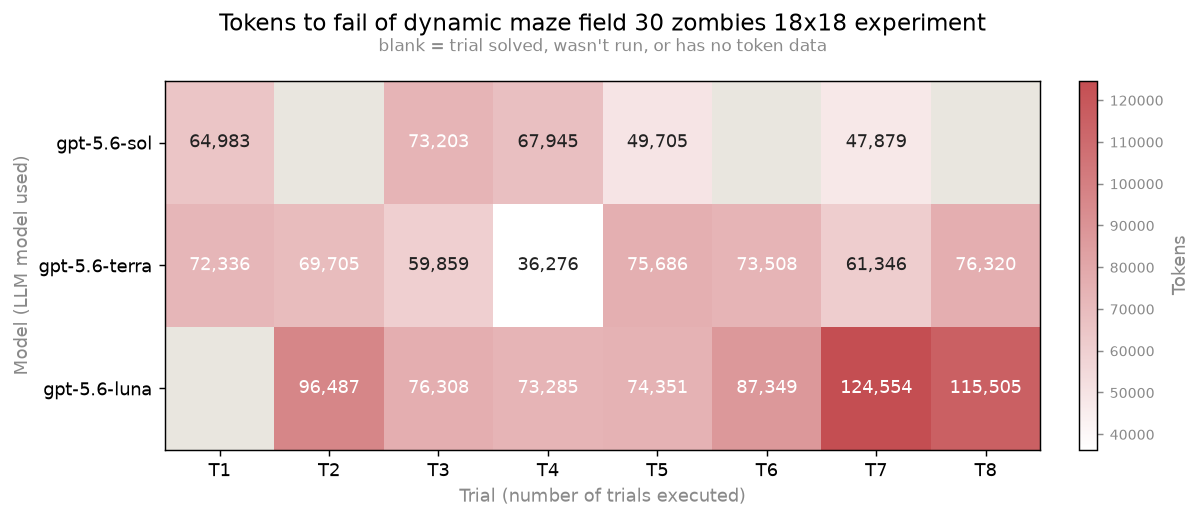
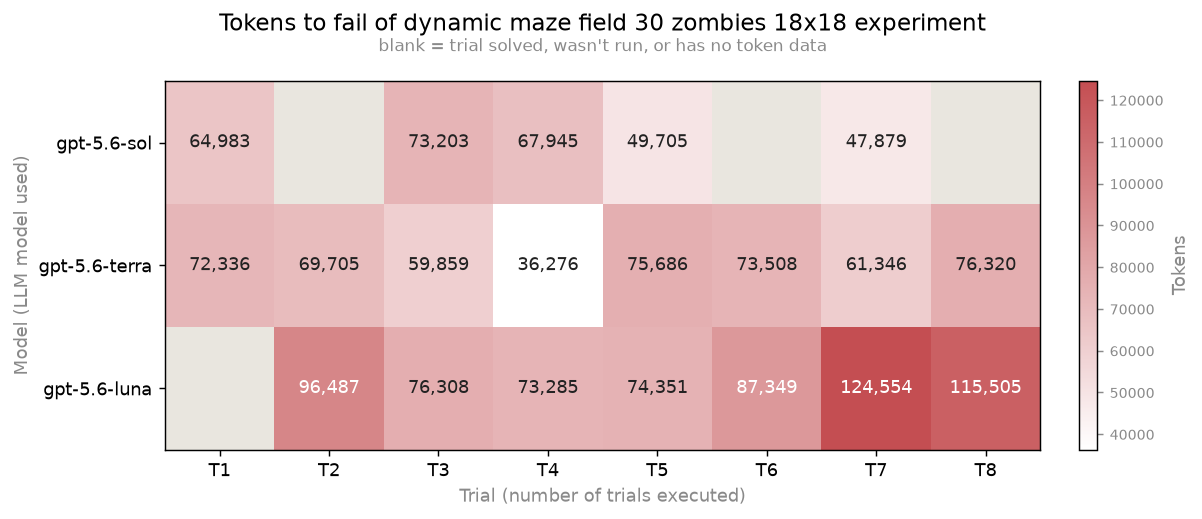
Updated the white cells to have black text so you can read it with more ease

diff --git a/analyze_results.py b/analyze_results.py
@@ -215,16 +215,21 @@ def _plot_trial_grid(details, num_trials, out, *, value_key, keep_success,
 
     ax.set_facecolor(GRID_BG)
     masked = np.ma.masked_invalid(grid)
-    im = ax.imshow(masked, cmap=_sequential_cmap(colour), aspect="auto")
+    vmin = float(np.nanmin(grid))
+    vmax = float(np.nanmax(grid))
+    im = ax.imshow(masked, cmap=_sequential_cmap(colour), aspect="auto", vmin=vmin, vmax=vmax)
     ax.set_xticks(range(n_cols), [f"T{i + 1}" for i in range(n_cols)])
     ax.set_yticks(range(len(names)), names)
-    vmax = float(np.nanmax(grid))
     for mi in range(len(names)):
         for ti in range(n_cols):
             v = grid[mi, ti]
             if np.isnan(v):
                 continue
-            text_colour = "white" if vmax and v / vmax > 0.55 else "#222222"
+            # Base the text colour on the same [vmin, vmax] normalisation the
+            # colormap itself uses - not on v/vmax - so a cell that happens to
+            # be the grid's minimum (rendered white) never gets white text.
+            norm = (v - vmin) / (vmax - vmin) if vmax > vmin else 0.5
+            text_colour = "white" if norm > 0.55 else "#222222"
             ax.text(ti, mi, value_fmt(v), ha="center", va="center",
                     color=text_colour, fontsize=10)
     ax.set_xlabel("Trial (number of trials executed)", color=LABEL_GRAY, fontsize=10)
